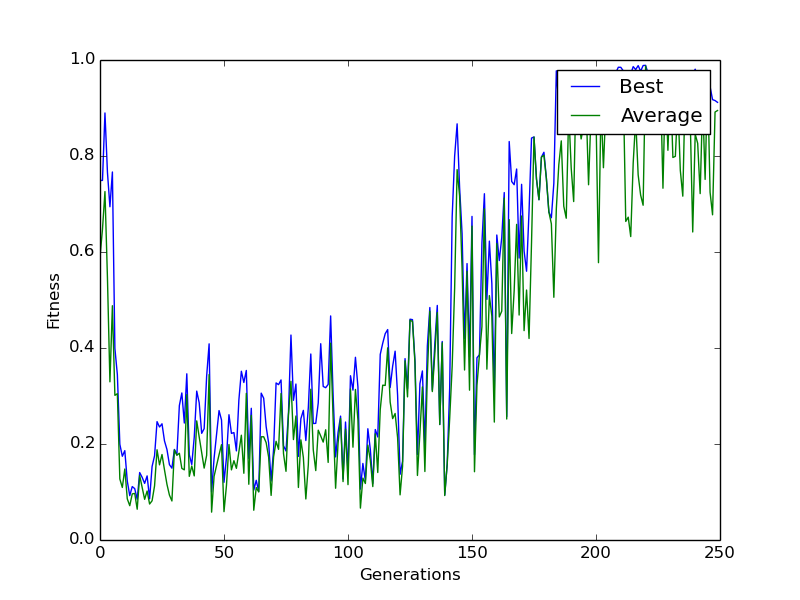
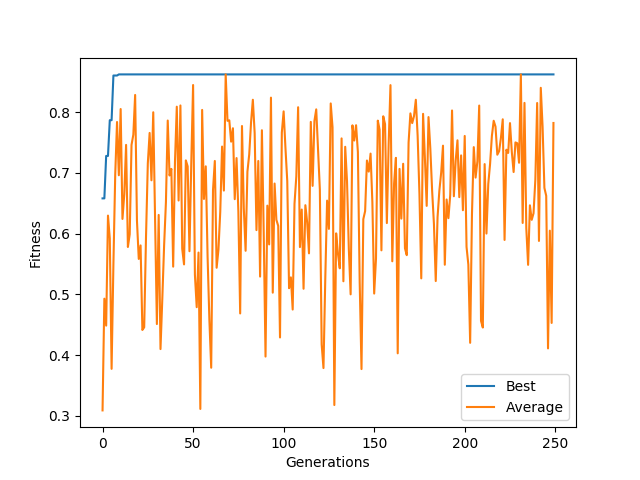
finished!

diff --git a/OCEV/variaveis.py b/OCEV/variaveis.py
@@ -3,12 +3,12 @@ import math as mt
 
 generations = 250
 k = 2
-pop_size = 50
-d_size = 5
+pop_size = 100
+d_size = 10
 bounds = [-50,50]
 
-# elitism = True
-elitism = False
+elitism = True
+# elitism = False
 
 # 1 = Roullette, 2 = Tournament
 # selection = 1
@@ -17,25 +17,25 @@ selection = 2
 # 1 = bitsAlternados, 2 = Pares Alternados, 3 = sphere min , 4 = Radio, 5 = padrao grafico
 # problem = 1
 # problem = 2
-problem = 3
-# problem = 4
+# problem = 3
+problem = 4
 # problem = 5
 
 # 1 = onePoint; 2 = Uniform; 3 = BLX; 4 = Average; 5 = PLX
-# cover = 1
+cover = 1
 # cover = 2
 # cover = 3
-cover = 4
+# cover = 4
 # cover = 5
 
 # 1 = bitFlip; 2 = randMutation; 3 = deltaMutation; 4 = gaussianMutation; 5 = swapPositions
-# mutar = 1
+mutar = 1
 # mutar = 2
-mutar = 3
+# mutar = 3
 # mutar = 4
 # mutar = 5
 
 
 # cod = 0
-cod = 0.0
-# cod = False
+# cod = 0.0
+cod = False

diff --git a/OCEV/mutation.py b/OCEV/mutation.py
@@ -28,11 +28,11 @@ def randMutation(valorMat,d):
 
 # REAL
 def deltaMutation(valorMat):
-  prob = random.choice([0,1])
-  if prob == 0:
+  prob = random.random()
+  if prob > 0.5:
     u = valorMat + (random.uniform(var.bounds[0],var.bounds[1])/10)
     valorMat = u
-  if prob == 1:
+  else:
     u = valorMat - (random.uniform(var.bounds[0],var.bounds[1])/10)
     valorMat = u
   return valorMat
@@ -40,12 +40,12 @@ def deltaMutation(valorMat):
 def gaussianMutation(valorMat):
   x1 = random.random()
   x2 = random.random()
-  if x1 == 0:
-    x1 = 1
-  if x2 == 0:
-    x2 = 1
-  y1 = mt.sqrt(-2.0 * mt.log(x1)) * mt.cos(2.0 * mt.pi * x2)
-  final = y1 * 0.1 + valorMat
+  # if x1 == 0:
+  #   x1 = 1
+  # if x2 == 0:
+  #   x2 = 1
+  y1 = mt.sqrt(-2 * mt.log(x1)) * mt.cos(2* mt.pi * x2)
+  final = valorMat + y1 * 0.1
   valorMat = final
   return valorMat
 

diff --git a/OCEV/fitness.py b/OCEV/fitness.py
@@ -50,6 +50,7 @@ def sphere(matriz, pop, d):
     matriz[i].append(fit)
     matriz[i][d] = fit
   return matriz
+#[2.7960818759387046e-07, 4.1657296873112263e-07, -1.613529196878329e-05, 2.5321693958119714e-06, -3.918788553636807e-06]
 
 # Radio Factory
 def radio(matriz,pop,d):

diff --git a/OCEV/crossover.py b/OCEV/crossover.py
@@ -5,7 +5,7 @@ import copy
 import functools
 # PROBABILIDADE CROSSOVER
 def cross():
-  x = 1.0
+  x = 0.94
   y = random.random()
   if x > y:
     return True
